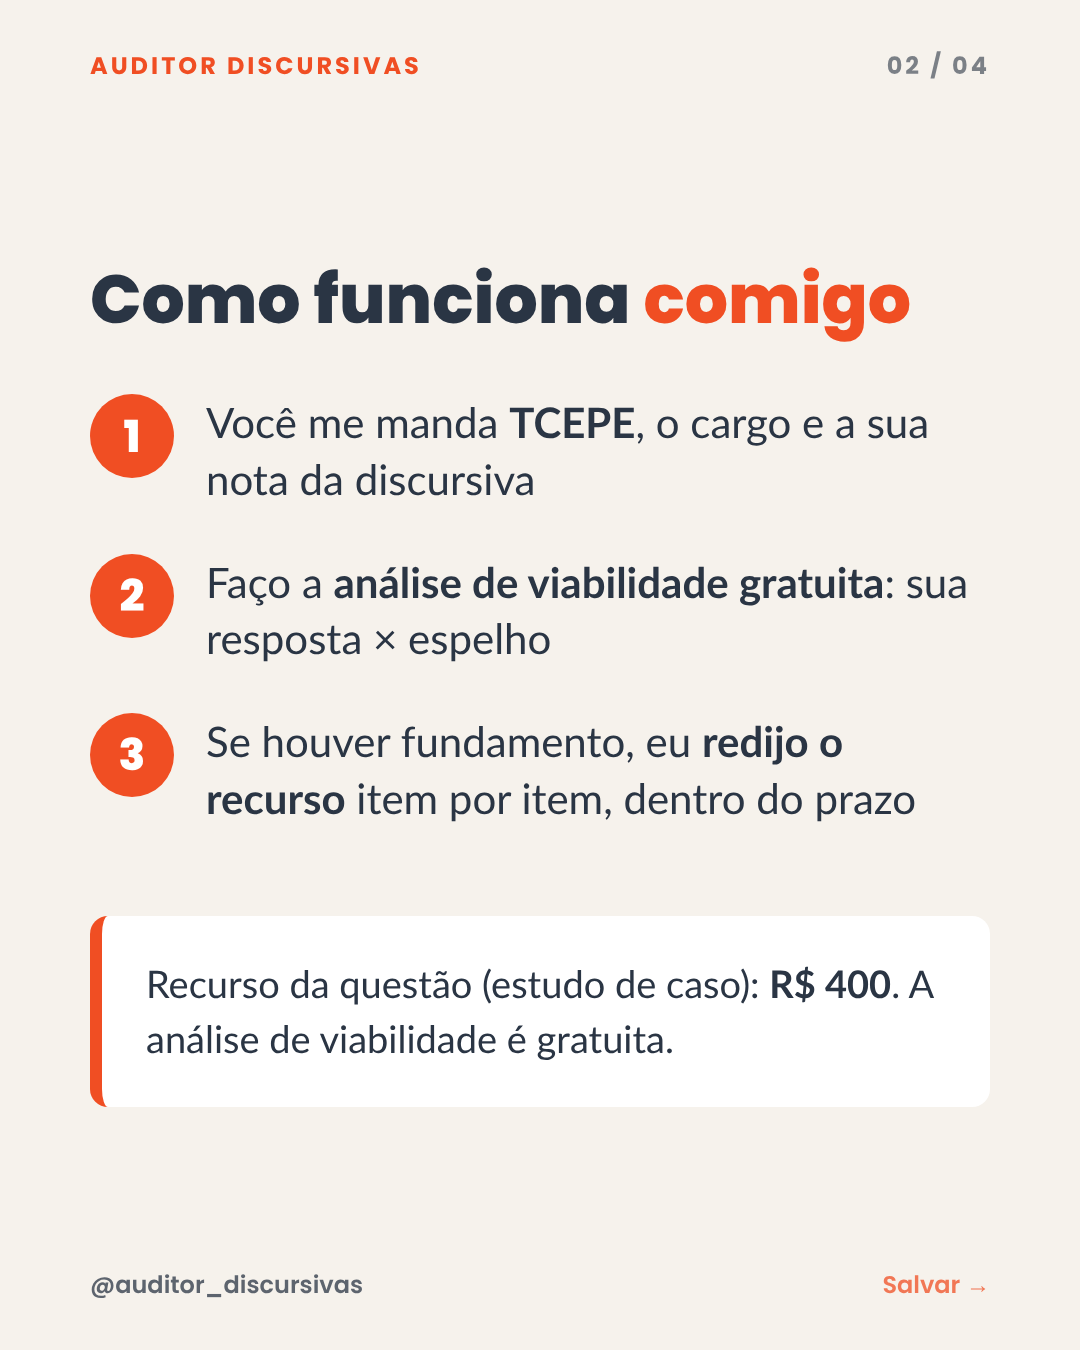
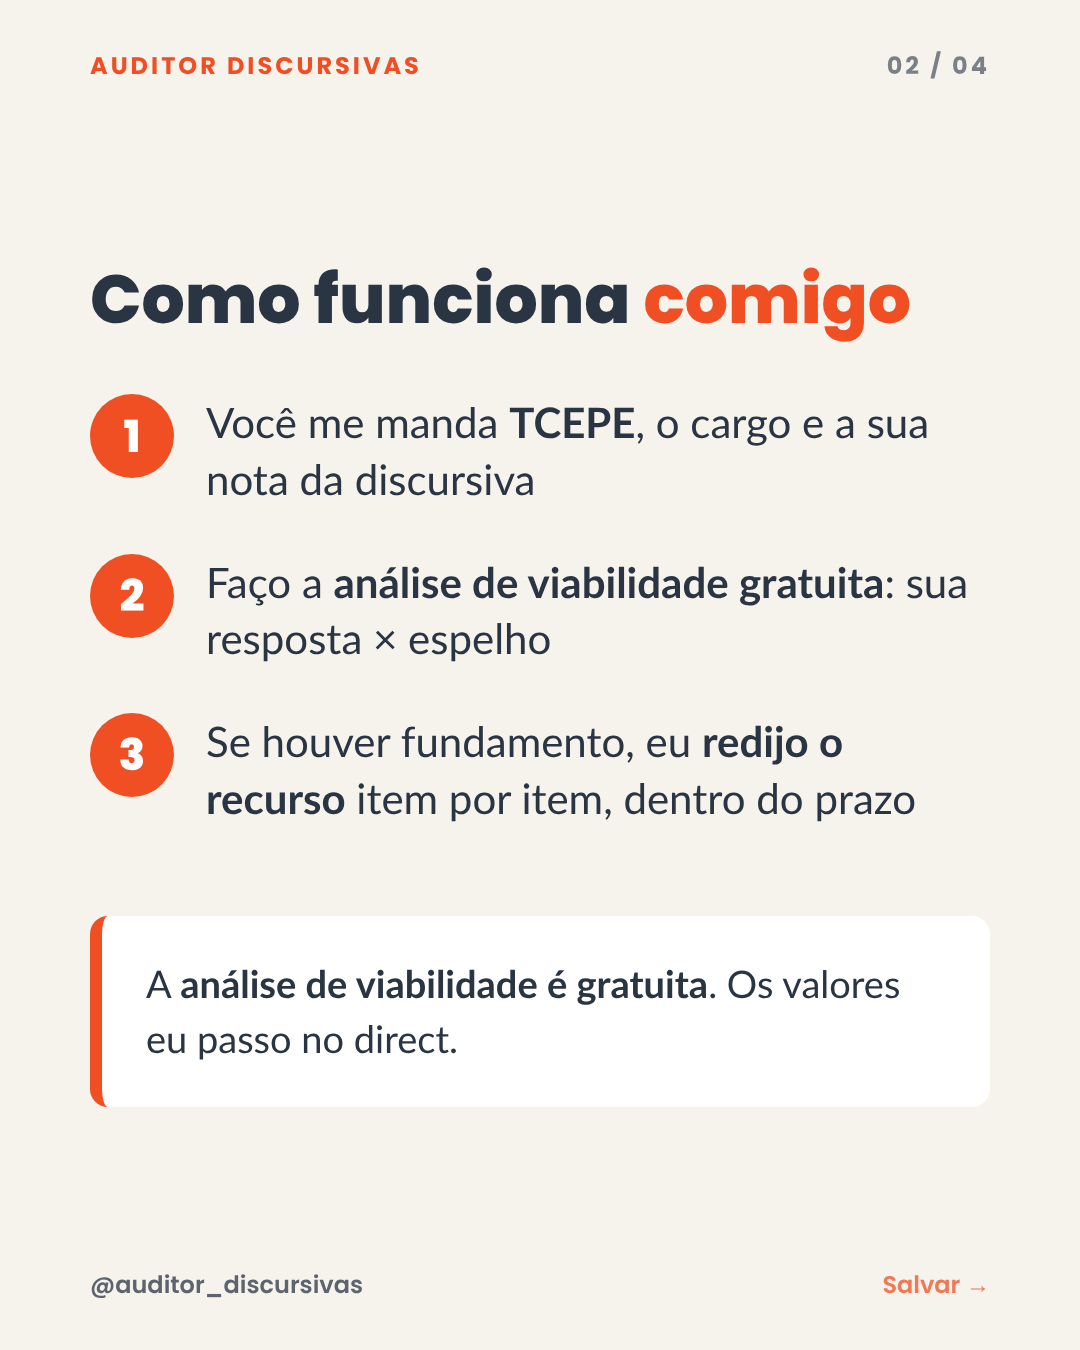
TCE-PE D: sem preço no post (valores no direct) — Samuel, 02/11
Claude-Session: https://claude.ai/code/session_01DzGKEj4kViGeh2DgZ7c7i9

Changed region(s): [[0.1222, 0.7156, 0.8556, 0.7778]]

diff --git a/fontes/campanha-recurso-tcepe-d7-d1-d/carrossel_d.html b/fontes/campanha-recurso-tcepe-d7-d1-d/carrossel_d.html
@@ -63,4 +63,4 @@ p.mid{font-size:38px;line-height:1.45}
 .st.claro .num{background:var(--navy)}
 /* stories em fundo azul (Samuel, 02/11/2026) */
 .st.navy .big-n{color:#fff}
-</style></head><body><section class="s navy"><div class="top"><span class="wm">AUDITOR DISCURSIVAS</span><span class="ct">01 / 04</span></div><div class="sp"></div><div class="selo">RECURSO DE DISCURSIVA</div><h1>Não concorda com a nota da sua discursiva do <em>TCE-PE?</em></h1><div class="chips"><span class="chip">TCE-PE</span><span class="chip">FGV</span><span class="chip">Recurso 13 a 16/11</span></div><p class="big"><b>Você ainda tem chance.</b> O recurso vai de 13 a 16/11.</p><div class="sp"></div><div class="rod"><span>@auditor_discursivas</span><span class="sv">Arraste →</span></div></section><section class="s claro" style="justify-content:center"><div class="top"><span class="wm">AUDITOR DISCURSIVAS</span><span class="ct">02 / 04</span></div><h2>Como funciona <em>comigo</em></h2><ul class="lista"><li><span class="num">1</span><span>Você me manda <b>TCEPE</b>, o cargo e a sua nota da discursiva</span></li><li><span class="num">2</span><span>Faço a <b>análise de viabilidade gratuita</b>: sua resposta × espelho</span></li><li><span class="num">3</span><span>Se houver fundamento, eu <b>redijo o recurso</b> item por item, dentro do prazo</span></li></ul><div class="card">Recurso da questão (estudo de caso): <b>R$ 400</b>. A análise de viabilidade é gratuita.</div><div class="rod"><span>@auditor_discursivas</span><span class="sv">Salvar →</span></div></section><section class="s claro" style="justify-content:center"><div class="top"><span class="wm">AUDITOR DISCURSIVAS</span><span class="ct">03 / 04</span></div><h2>4 dias, com <em>fim de semana</em> no meio</h2><div class="tl"><div class="ev"><span class="k">sex 13/11</span><span>Abre o recurso</span></div><div class="ev"><span class="k">sáb 14 e dom 15</span><span>Prazo correndo</span></div><div class="ev d"><span class="k">seg 16/11</span><span><b>Último dia</b></span></div></div><div class="card"><b>Quanto antes você mandar, mais tempo para fundamentar.</b> Depois de 16/11, essa correção não se discute mais.</div><div class="rod"><span>@auditor_discursivas</span><span class="sv">Salvar →</span></div></section><section class="s claro"><div class="top"><span class="wm">AUDITOR DISCURSIVAS</span><span class="ct">04 / 04</span></div><div class="sp"></div><h2>Ponto recuperado é <em>ponto na classificação.</em></h2><p class="big" style="margin:44px 0 52px">Mande agora e eu te digo se o seu recurso tem fundamento.</p><div class="box">Comente TCEPE<small><span class="vg" style="display:block;font-weight:900;letter-spacing:2px;margin:4px 0 6px">⏳ VAGAS LIMITADAS PARA O RECURSO</span>ou mande <b>TCEPE</b> no direct. A análise de viabilidade é gratuita.</small></div><div class="sp"></div><div class="autor" style="margin-top:0;align-items:center"><div class="foto" style="flex:0 0 190px;width:190px;height:190px"></div><div><b>Samuel Wolf</b><span style="display:block;color:var(--lar);opacity:1;font-weight:700;margin:4px 0 14px">Recursos de provas discursivas</span><ul class="cred"><li>✔ Engenheiro pelo ITA</li><li>✔ Auditor de Controle Externo do TCE-RJ</li><li>✔ Nomeado Auditor Fiscal da SEFAZ-RS</li><li>✔ Nomeado Auditor Fiscal da SEFIN Manaus</li></ul></div></div><div class="rod"><span>@auditor_discursivas</span><span></span></div></section><section class="st navy"><div class="wm">AUDITOR DISCURSIVAS</div><div class="selo">RECURSO DE DISCURSIVA</div><h1 style="font-size:104px">Dia de resultado: discursiva do <em>TCE-PE.</em></h1><p class="big" style="margin:50px 0 60px">Não concordou com a nota? O recurso é de <b>13 a 16/11</b>.</p><div class="box">Mande TCEPE no direct.<small><span class="vg" style="display:block;font-weight:900;letter-spacing:2px;margin:4px 0 6px">⏳ VAGAS LIMITADAS PARA O RECURSO</span>A análise de viabilidade é gratuita.</small></div><div class="autor"><div class="foto"></div><div><b>Samuel Wolf</b><span>Recursos de provas discursivas</span></div></div></section><section class="st navy"><div class="wm">AUDITOR DISCURSIVAS</div><div class="selo">RECURSO TCE-PE</div><p class="big">Recurso aberto até segunda</p><div class="big-n">16/11</div><p class="big" style="margin:30px 0 60px">Quanto antes, mais tempo para fundamentar.</p><div class="box">Mande TCEPE no direct.<small><span class="vg" style="display:block;font-weight:900;letter-spacing:2px;margin:4px 0 6px">⏳ VAGAS LIMITADAS PARA O RECURSO</span>A análise de viabilidade é gratuita.</small></div></section><section class="st navy"><div class="wm">AUDITOR DISCURSIVAS</div><div class="selo">RECURSO TCE-PE</div><p class="big">Faltam</p><div class="big-n">3 dias</div><p class="big" style="margin:30px 0 60px">O prazo termina segunda, 16/11.</p><div class="box">Mande TCEPE no direct.<small><span class="vg" style="display:block;font-weight:900;letter-spacing:2px;margin:4px 0 6px">⏳ VAGAS LIMITADAS PARA O RECURSO</span>A análise de viabilidade é gratuita.</small></div></section><section class="st navy"><div class="wm">AUDITOR DISCURSIVAS</div><div class="selo">RECURSO TCE-PE</div><p class="big">Faltam</p><div class="big-n">2 dias</div><p class="big" style="margin:30px 0 60px">Recurso bom aponta a linha da sua folha que atende ao critério do espelho.</p><div class="box">Mande TCEPE no direct.<small><span class="vg" style="display:block;font-weight:900;letter-spacing:2px;margin:4px 0 6px">⏳ VAGAS LIMITADAS PARA O RECURSO</span>A análise de viabilidade é gratuita.</small></div></section><section class="st navy"><div class="wm">AUDITOR DISCURSIVAS</div><div class="selo">RECURSO TCE-PE</div><div class="big-n" style="font-size:170px">Último dia</div><p class="big" style="margin:30px 0 60px">O recurso da discursiva do TCE-PE termina <b>hoje</b>.</p><div class="box">Mande TCEPE no direct.<small><span class="vg" style="display:block;font-weight:900;letter-spacing:2px;margin:4px 0 6px">⏳ VAGAS LIMITADAS PARA O RECURSO</span>A análise de viabilidade é gratuita.</small></div><div class="autor"><div class="foto"></div><div><b>Samuel Wolf</b><span>Recursos de provas discursivas</span></div></div></section></body></html>
+</style></head><body><section class="s navy"><div class="top"><span class="wm">AUDITOR DISCURSIVAS</span><span class="ct">01 / 04</span></div><div class="sp"></div><div class="selo">RECURSO DE DISCURSIVA</div><h1>Não concorda com a nota da sua discursiva do <em>TCE-PE?</em></h1><div class="chips"><span class="chip">TCE-PE</span><span class="chip">FGV</span><span class="chip">Recurso 13 a 16/11</span></div><p class="big"><b>Você ainda tem chance.</b> O recurso vai de 13 a 16/11.</p><div class="sp"></div><div class="rod"><span>@auditor_discursivas</span><span class="sv">Arraste →</span></div></section><section class="s claro" style="justify-content:center"><div class="top"><span class="wm">AUDITOR DISCURSIVAS</span><span class="ct">02 / 04</span></div><h2>Como funciona <em>comigo</em></h2><ul class="lista"><li><span class="num">1</span><span>Você me manda <b>TCEPE</b>, o cargo e a sua nota da discursiva</span></li><li><span class="num">2</span><span>Faço a <b>análise de viabilidade gratuita</b>: sua resposta × espelho</span></li><li><span class="num">3</span><span>Se houver fundamento, eu <b>redijo o recurso</b> item por item, dentro do prazo</span></li></ul><div class="card">A <b>análise de viabilidade é gratuita</b>. Os valores eu passo no direct.</div><div class="rod"><span>@auditor_discursivas</span><span class="sv">Salvar →</span></div></section><section class="s claro" style="justify-content:center"><div class="top"><span class="wm">AUDITOR DISCURSIVAS</span><span class="ct">03 / 04</span></div><h2>4 dias, com <em>fim de semana</em> no meio</h2><div class="tl"><div class="ev"><span class="k">sex 13/11</span><span>Abre o recurso</span></div><div class="ev"><span class="k">sáb 14 e dom 15</span><span>Prazo correndo</span></div><div class="ev d"><span class="k">seg 16/11</span><span><b>Último dia</b></span></div></div><div class="card"><b>Quanto antes você mandar, mais tempo para fundamentar.</b> Depois de 16/11, essa correção não se discute mais.</div><div class="rod"><span>@auditor_discursivas</span><span class="sv">Salvar →</span></div></section><section class="s claro"><div class="top"><span class="wm">AUDITOR DISCURSIVAS</span><span class="ct">04 / 04</span></div><div class="sp"></div><h2>Ponto recuperado é <em>ponto na classificação.</em></h2><p class="big" style="margin:44px 0 52px">Mande agora e eu te digo se o seu recurso tem fundamento.</p><div class="box">Comente TCEPE<small><span class="vg" style="display:block;font-weight:900;letter-spacing:2px;margin:4px 0 6px">⏳ VAGAS LIMITADAS PARA O RECURSO</span>ou mande <b>TCEPE</b> no direct. A análise de viabilidade é gratuita.</small></div><div class="sp"></div><div class="autor" style="margin-top:0;align-items:center"><div class="foto" style="flex:0 0 190px;width:190px;height:190px"></div><div><b>Samuel Wolf</b><span style="display:block;color:var(--lar);opacity:1;font-weight:700;margin:4px 0 14px">Recursos de provas discursivas</span><ul class="cred"><li>✔ Engenheiro pelo ITA</li><li>✔ Auditor de Controle Externo do TCE-RJ</li><li>✔ Nomeado Auditor Fiscal da SEFAZ-RS</li><li>✔ Nomeado Auditor Fiscal da SEFIN Manaus</li></ul></div></div><div class="rod"><span>@auditor_discursivas</span><span></span></div></section><section class="st navy"><div class="wm">AUDITOR DISCURSIVAS</div><div class="selo">RECURSO DE DISCURSIVA</div><h1 style="font-size:104px">Dia de resultado: discursiva do <em>TCE-PE.</em></h1><p class="big" style="margin:50px 0 60px">Não concordou com a nota? O recurso é de <b>13 a 16/11</b>.</p><div class="box">Mande TCEPE no direct.<small><span class="vg" style="display:block;font-weight:900;letter-spacing:2px;margin:4px 0 6px">⏳ VAGAS LIMITADAS PARA O RECURSO</span>A análise de viabilidade é gratuita.</small></div><div class="autor"><div class="foto"></div><div><b>Samuel Wolf</b><span>Recursos de provas discursivas</span></div></div></section><section class="st navy"><div class="wm">AUDITOR DISCURSIVAS</div><div class="selo">RECURSO TCE-PE</div><p class="big">Recurso aberto até segunda</p><div class="big-n">16/11</div><p class="big" style="margin:30px 0 60px">Quanto antes, mais tempo para fundamentar.</p><div class="box">Mande TCEPE no direct.<small><span class="vg" style="display:block;font-weight:900;letter-spacing:2px;margin:4px 0 6px">⏳ VAGAS LIMITADAS PARA O RECURSO</span>A análise de viabilidade é gratuita.</small></div></section><section class="st navy"><div class="wm">AUDITOR DISCURSIVAS</div><div class="selo">RECURSO TCE-PE</div><p class="big">Faltam</p><div class="big-n">3 dias</div><p class="big" style="margin:30px 0 60px">O prazo termina segunda, 16/11.</p><div class="box">Mande TCEPE no direct.<small><span class="vg" style="display:block;font-weight:900;letter-spacing:2px;margin:4px 0 6px">⏳ VAGAS LIMITADAS PARA O RECURSO</span>A análise de viabilidade é gratuita.</small></div></section><section class="st navy"><div class="wm">AUDITOR DISCURSIVAS</div><div class="selo">RECURSO TCE-PE</div><p class="big">Faltam</p><div class="big-n">2 dias</div><p class="big" style="margin:30px 0 60px">Recurso bom aponta a linha da sua folha que atende ao critério do espelho.</p><div class="box">Mande TCEPE no direct.<small><span class="vg" style="display:block;font-weight:900;letter-spacing:2px;margin:4px 0 6px">⏳ VAGAS LIMITADAS PARA O RECURSO</span>A análise de viabilidade é gratuita.</small></div></section><section class="st navy"><div class="wm">AUDITOR DISCURSIVAS</div><div class="selo">RECURSO TCE-PE</div><div class="big-n" style="font-size:170px">Último dia</div><p class="big" style="margin:30px 0 60px">O recurso da discursiva do TCE-PE termina <b>hoje</b>.</p><div class="box">Mande TCEPE no direct.<small><span class="vg" style="display:block;font-weight:900;letter-spacing:2px;margin:4px 0 6px">⏳ VAGAS LIMITADAS PARA O RECURSO</span>A análise de viabilidade é gratuita.</small></div><div class="autor"><div class="foto"></div><div><b>Samuel Wolf</b><span>Recursos de provas discursivas</span></div></div></section></body></html>

diff --git a/fontes/campanha-recurso-tcepe-d7-d1-d/gerar.py b/fontes/campanha-recurso-tcepe-d7-d1-d/gerar.py
@@ -100,7 +100,7 @@ CAMP = {
           ['Você me manda <b>TCEPE</b>, o cargo e a sua nota da discursiva',
            'Faço a <b>análise de viabilidade gratuita</b>: sua resposta × espelho',
            'Se houver fundamento, eu <b>redijo o recurso</b> item por item, dentro do prazo'],
-          'Recurso da questão (estudo de caso): <b>R$ 400</b>. A análise de viabilidade é gratuita.'),
+          'A <b>análise de viabilidade é gratuita</b>. Os valores eu passo no direct.'),
     linha(3, 4, '4 dias, com <em>fim de semana</em> no meio',
           [('sex 13/11', 'Abre o recurso', False), ('sáb 14 e dom 15', 'Prazo correndo', False), ('seg 16/11', '<b>Último dia</b>', True)],
           '<b>Quanto antes você mandar, mais tempo para fundamentar.</b> Depois de 16/11, essa correção não se discute mais.'),
